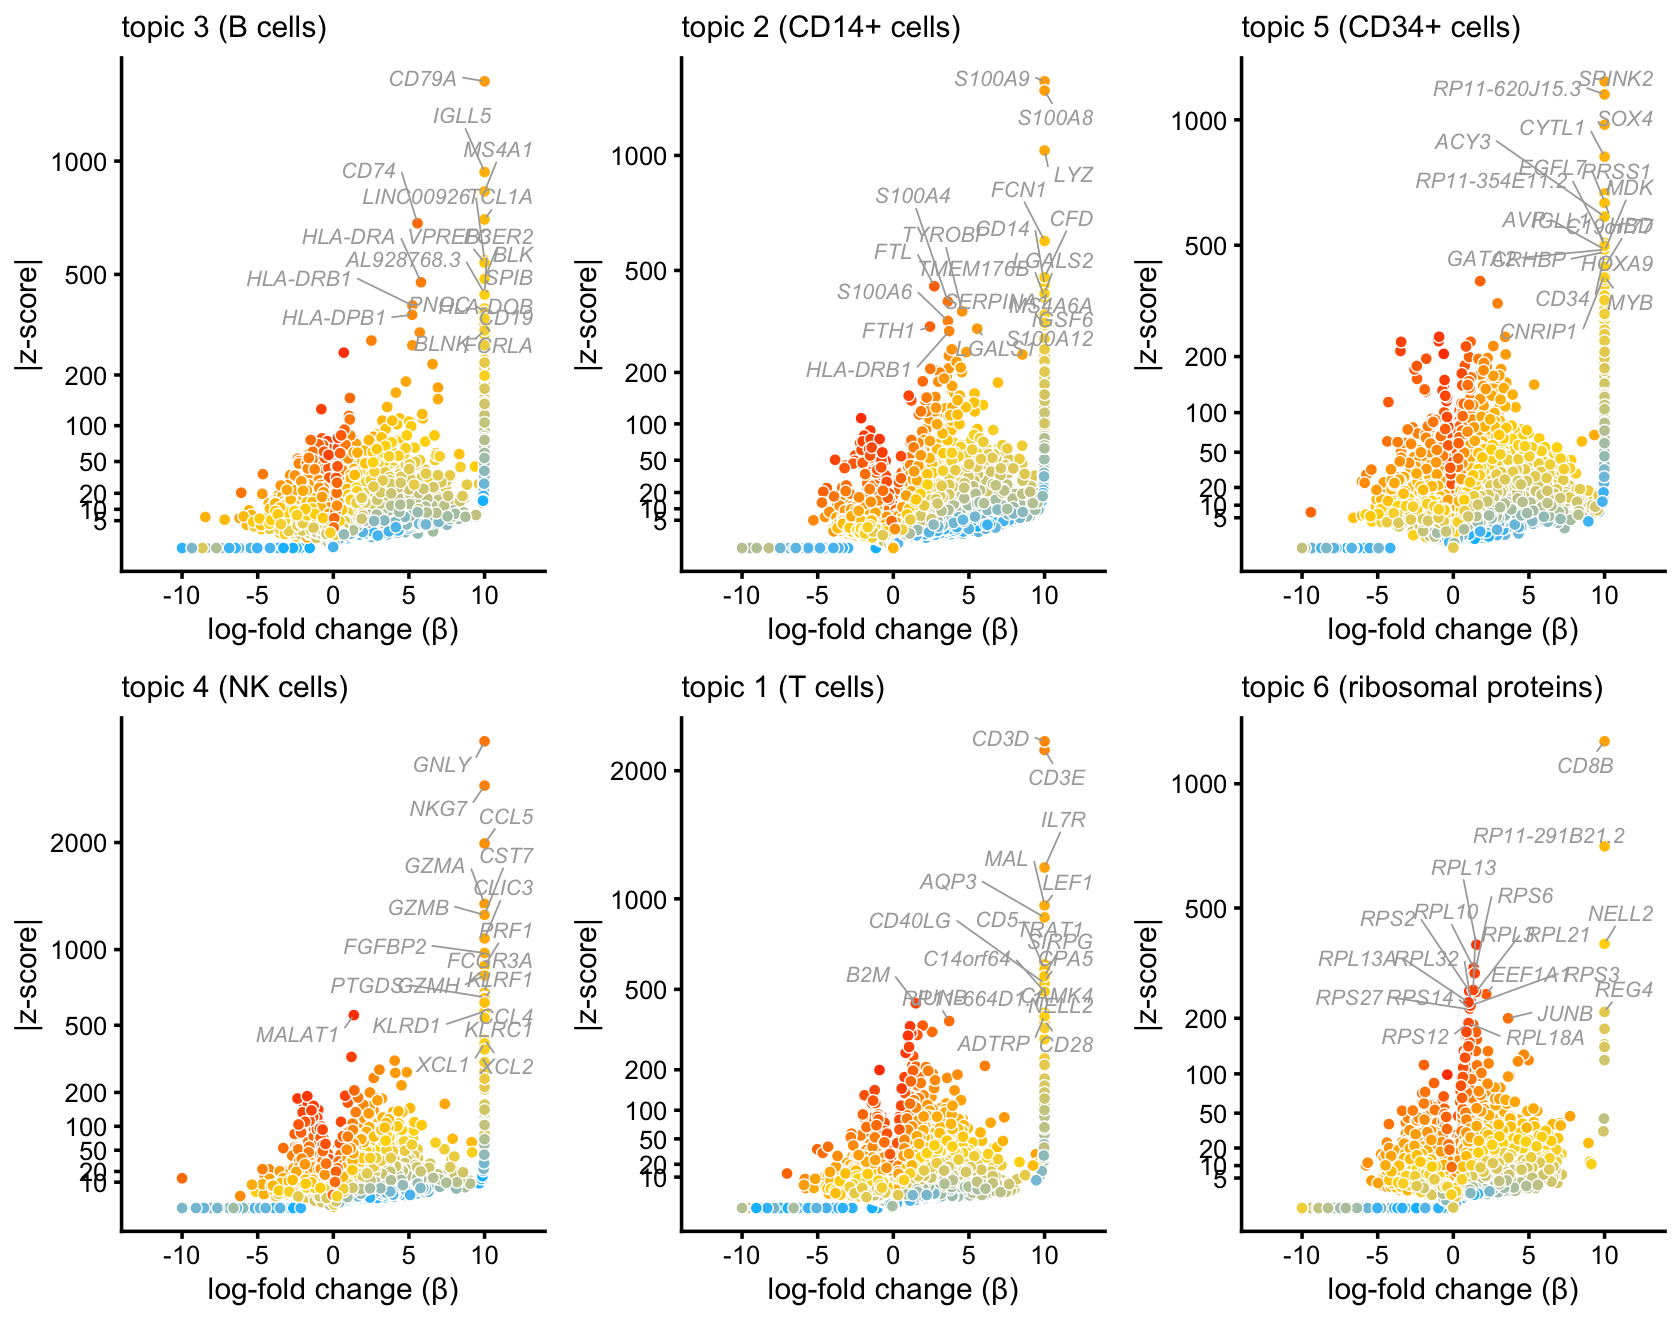
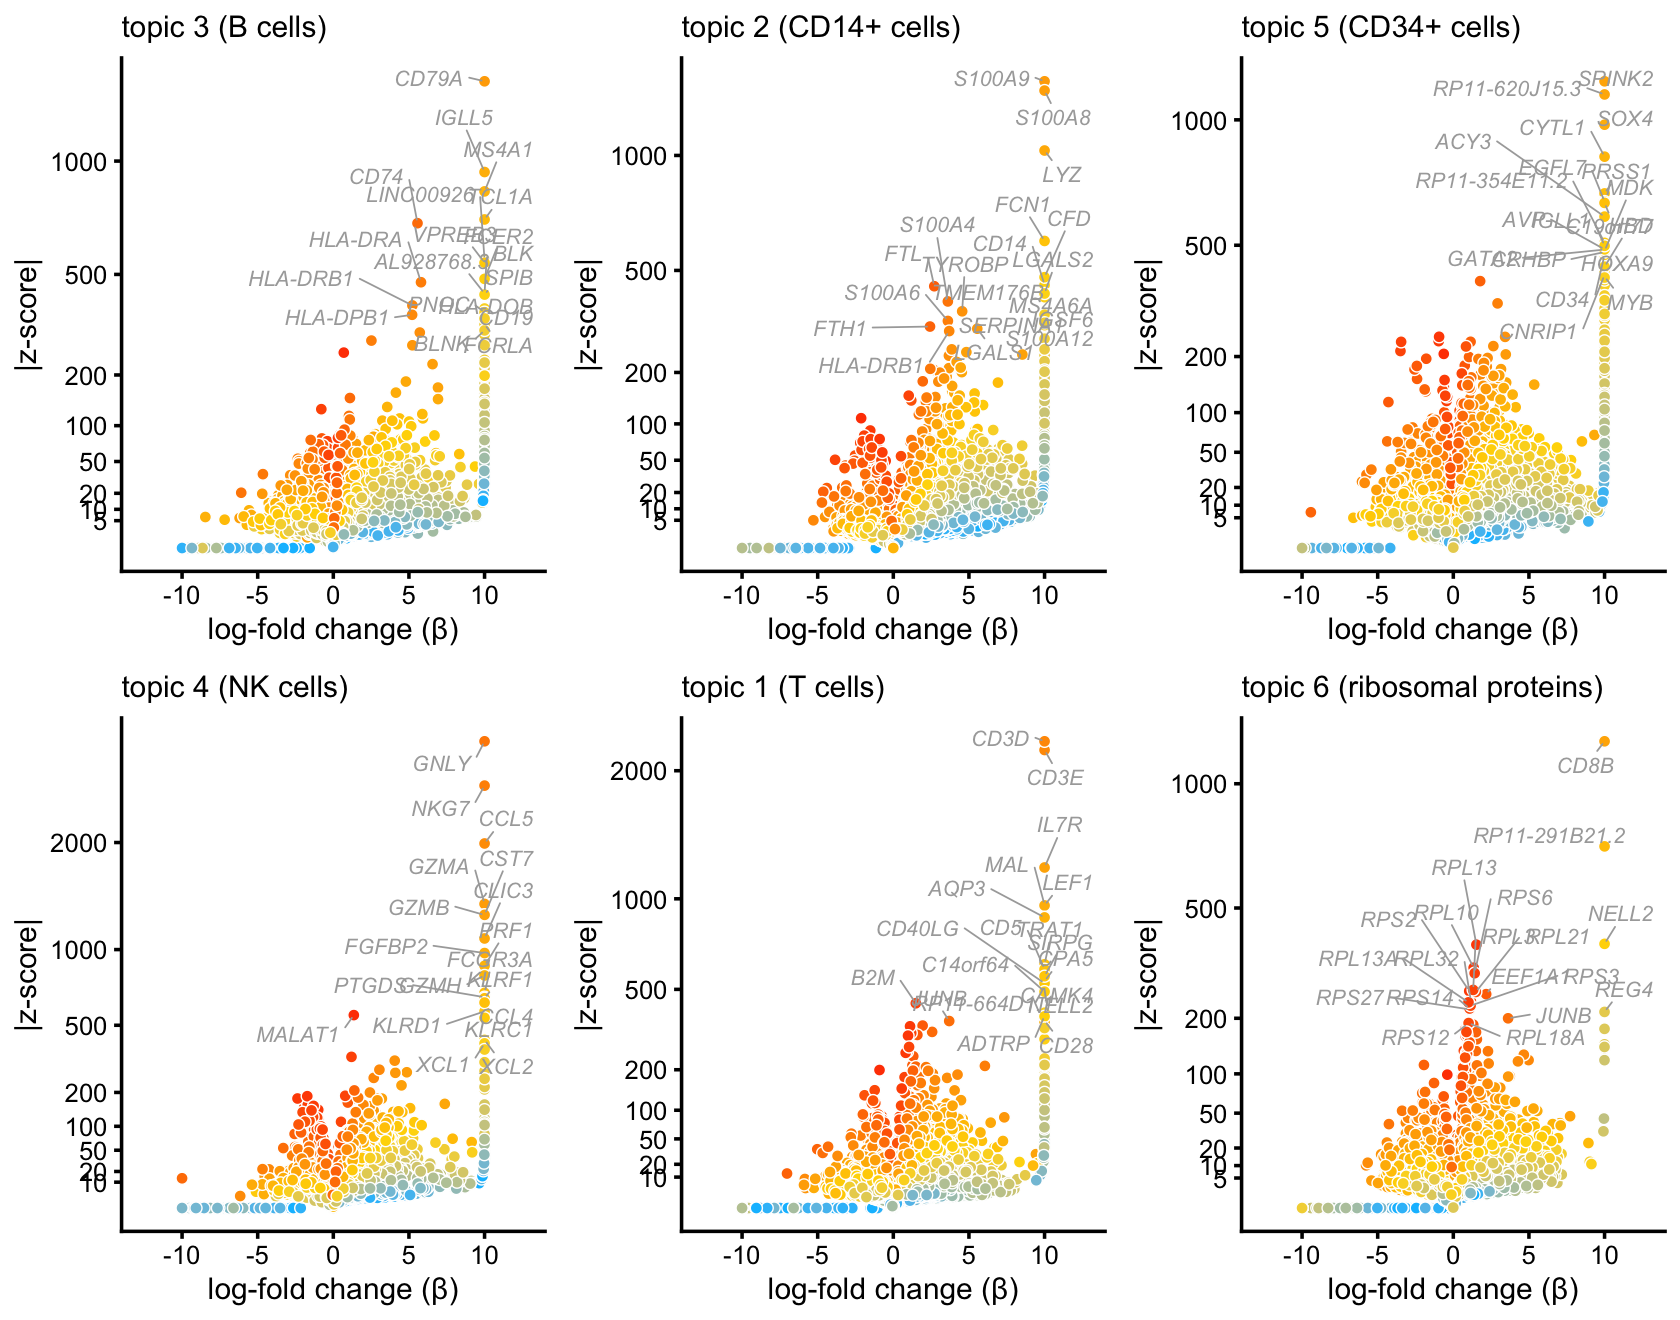
Updated volcano plots and added ribosomal gene scatterplots to plots_purified_pbmc analysis.

diff --git a/docs/plots_purified_pbmc.html b/docs/plots_purified_pbmc.html
@@ -426,16 +426,16 @@ diff-count-analysis-topics
 <div class="panel panel-default">
 <div class="panel-heading">
 <p class="panel-title">
-<a data-toggle="collapse" data-parent="#workflowr-checks" href="#strongRepositoryversionstrongahrefhttpsgithubcomstephenslabsinglecelltopicstree3e298d4909f1de4315b57eb8e6b7b3561d6b9795targetblank3e298d4a"> <span class="glyphicon glyphicon-ok text-success" aria-hidden="true"></span> <strong>Repository version:</strong> <a href="https://github.com/stephenslab/single-cell-topics/tree/3e298d4909f1de4315b57eb8e6b7b3561d6b9795" target="_blank">3e298d4</a> </a>
+<a data-toggle="collapse" data-parent="#workflowr-checks" href="#strongRepositoryversionstrongahrefhttpsgithubcomstephenslabsinglecelltopicstree13fedd96e95368acd3635bfd0ede7a0ee33eba9ftargetblank13fedd9a"> <span class="glyphicon glyphicon-ok text-success" aria-hidden="true"></span> <strong>Repository version:</strong> <a href="https://github.com/stephenslab/single-cell-topics/tree/13fedd96e95368acd3635bfd0ede7a0ee33eba9f" target="_blank">13fedd9</a> </a>
 </p>
 </div>
[2 lines of base64/hex data omitted]
 <div class="panel-body">
 <p>
 Great! You are using Git for version control. Tracking code development and connecting the code version to the results is critical for reproducibility.
 </p>
 <p>
-The results in this page were generated with repository version <a href="https://github.com/stephenslab/single-cell-topics/tree/3e298d4909f1de4315b57eb8e6b7b3561d6b9795" target="_blank">3e298d4</a>. See the <em>Past versions</em> tab to see a history of the changes made to the R Markdown and HTML files.
+The results in this page were generated with repository version <a href="https://github.com/stephenslab/single-cell-topics/tree/13fedd96e95368acd3635bfd0ede7a0ee33eba9f" target="_blank">13fedd9</a>. See the <em>Past versions</em> tab to see a history of the changes made to the R Markdown and HTML files.
 </p>
 <p>
 Note that you need to be careful to ensure that all relevant files for the analysis have been committed to Git prior to generating the results (you can use <code>wflow_publish</code> or <code>wflow_git_commit</code>). workflowr only checks the R Markdown file, but you know if there are other scripts or data files that it depends on. Below is the status of the Git repository when the results were generated:
@@ -498,6 +498,40 @@ Message
 </tr>
 </thead>
 <tbody>
+<tr>
+<td>
+Rmd
+</td>
+<td>
+<a href="https://github.com/stephenslab/single-cell-topics/blob/13fedd96e95368acd3635bfd0ede7a0ee33eba9f/analysis/plots_purified_pbmc.Rmd" target="_blank">13fedd9</a>
+</td>
+<td>
+Peter Carbonetto
+</td>
+<td>
+2021-02-10
+</td>
+<td>
+workflowr::wflow_publish(“plots_purified_pbmc.Rmd”, verbose = TRUE)
+</td>
+</tr>
+<tr>
+<td>
+html
+</td>
+<td>
+<a href="https://rawcdn.githack.com/stephenslab/single-cell-topics/f8e1d992f8ccfc3766d04c38de761b27cd6691aa/docs/plots_purified_pbmc.html" target="_blank">f8e1d99</a>
+</td>
+<td>
+Peter Carbonetto
+</td>
+<td>
+2021-02-10
+</td>
+<td>
+Re-built plots_purified_pbmc page.
+</td>
+</tr>
 <tr>
 <td>
 Rmd
@@ -1082,6 +1116,17 @@ Date
 <tbody>
 <tr>
 <td>
+<a href="https://github.com/stephenslab/single-cell-topics/blob/f8e1d992f8ccfc3766d04c38de761b27cd6691aa/docs/figure/plots_purified_pbmc.Rmd/volcano-plots-1-1.png" target="_blank">f8e1d99</a>
+</td>
+<td>
+Peter Carbonetto
+</td>
+<td>
+2021-02-10
+</td>
+</tr>
+<tr>
+<td>
 <a href="https://github.com/stephenslab/single-cell-topics/blob/d1d4185236959bd7ebe0525df6e35157b7e5c706/docs/figure/plots_purified_pbmc.Rmd/volcano-plots-1-1.png" target="_blank">d1d4185</a>
 </td>
 <td>
@@ -1274,6 +1319,17 @@ Date
 <tbody>
 <tr>
 <td>
+<a href="https://github.com/stephenslab/single-cell-topics/blob/f8e1d992f8ccfc3766d04c38de761b27cd6691aa/docs/figure/plots_purified_pbmc.Rmd/volcano-plots-2-1.png" target="_blank">f8e1d99</a>
+</td>
+<td>
+Peter Carbonetto
+</td>
+<td>
+2021-02-10
+</td>
+</tr>
+<tr>
+<td>
 <a href="https://github.com/stephenslab/single-cell-topics/blob/d1d4185236959bd7ebe0525df6e35157b7e5c706/docs/figure/plots_purified_pbmc.Rmd/volcano-plots-2-1.png" target="_blank">d1d4185</a>
 </td>
 <td>
@@ -1451,6 +1507,17 @@ Date
 <tbody>
 <tr>
 <td>
+<a href="https://github.com/stephenslab/single-cell-topics/blob/f8e1d992f8ccfc3766d04c38de761b27cd6691aa/docs/figure/plots_purified_pbmc.Rmd/volcano-plots-3-1.png" target="_blank">f8e1d99</a>
+</td>
+<td>
+Peter Carbonetto
+</td>
+<td>
+2021-02-10
+</td>
+</tr>
+<tr>
+<td>
 <a href="https://github.com/stephenslab/single-cell-topics/blob/d1d4185236959bd7ebe0525df6e35157b7e5c706/docs/figure/plots_purified_pbmc.Rmd/volcano-plots-3-1.png" target="_blank">d1d4185</a>
 </td>
 <td>
@@ -1493,48 +1560,56 @@ Peter Carbonetto
                subsample_below_quantile = 0.5,
                filter_low_counts = 5e-5,
                width = 450,height = 500)
+# 10103 out of 18367 data points will be included in plot
 volcano_plotly(diff_count_topics,&quot;k2&quot;,
                &quot;volcano_plot_purified_pbmc_cd14.html&quot;,
                genes$symbol,title = &quot;topic 2 (CD14+)&quot;,
                subsample_below_quantile = 0.5,
                filter_low_counts = 5e-5,
                width = 450,height = 500)
+# 10103 out of 18367 data points will be included in plot
 volcano_plotly(diff_count_topics,&quot;k5&quot;,
                &quot;volcano_plot_purified_pbmc_cd34.html&quot;,
                genes$symbol,title = &quot;topic 5 (CD34+)&quot;,
                subsample_below_quantile = 0.5,
                filter_low_counts = 5e-5,
                width = 450,height = 500)
+# 10103 out of 18367 data points will be included in plot
 volcano_plotly(diff_count_topics,&quot;k4&quot;,
                &quot;volcano_plot_purified_pbmc_nk.html&quot;,
                genes$symbol,title = &quot;topic 4 (NK cells)&quot;,
                subsample_below_quantile = 0.5,
                filter_low_counts = 5e-5,
                width = 450,height = 500)
+# 10103 out of 18367 data points will be included in plot
 volcano_plotly(diff_count_topics,&quot;k1&quot;,
                &quot;volcano_plot_purified_pbmc_tcells.html&quot;,
                genes$symbol,title = &quot;topic 1 (T cells)&quot;,
                subsample_below_quantile = 0.5,
                filter_low_counts = 5e-5,
                width = 450,height = 500)
+# 10103 out of 18367 data points will be included in plot
 volcano_plotly(diff_count_topics,&quot;k6&quot;,
                &quot;volcano_plot_purified_pbmc_ribosomal_proteins.html&quot;,
                genes$symbol,title = &quot;topic 6 (ribosomal proteins)&quot;,
                subsample_below_quantile = 0.5,
                filter_low_counts = 5e-5,
                width = 450,height = 500)
+# 10103 out of 18367 data points will be included in plot
 volcano_plotly(diff_count_clusters,&quot;CD8+&quot;,
                &quot;volcano_plot_purified_pbmc_cd8.html&quot;,
                genes$symbol,title = &quot;CD8+ cluster&quot;,
                subsample_below_quantile = 0.5,
                filter_low_counts = 5e-5,
                width = 450,height = 500)
+# 10130 out of 18417 data points will be included in plot
 volcano_plotly(diff_count_clusters,&quot;dendritic&quot;,
                &quot;volcano_plot_purified_pbmc_dendritic.html&quot;,
                genes$symbol,title = &quot;dendritic cells cluster&quot;,
                subsample_below_quantile = 0.5,
                filter_low_counts = 5e-5,
-               width = 450,height = 500)</code></pre>
+               width = 450,height = 500)
+# 10130 out of 18417 data points will be included in plot</code></pre>
 <p>The interactive volcano plots mayalso be viewed by clicking these links: <a href="volcano_plot_purified_pbmc_bcells.html">topic 3 (B cells)</a>, <a href="volcano_plot_purified_pbmc_nk.html">topic 4 (NK cells)</a>, <a href="volcano_plot_purified_pbmc_cd14.html">topic 2 (CD14+)</a>, <a href="volcano_plot_purified_pbmc_cd34.html">topic 5 (CD34+)</a>, <a href="volcano_plot_purified_pbmc_tcells.html">topics 1 (T cells)</a>, <a href="volcano_plot_purified_pbmc_ribosomal_proteins.html">topics 6 (T cells)</a>, <a href="volcano_plot_purified_pbmc_cd8.html">CD8+ cluster</a> and <a href="volcano_plot_purified_pbmc_dendritic.html">dendritic cells cluster</a>.</p>
 <p>The volcano plot for topic 6 suggests an enrichment of ribosomal protein genes. Indeed, there is a very strong correlation between the topic 6 mixture proportion and the fraction of total expression attributed to ribosomal genes:</p>
 <pre class="r"><code>rpgenes &lt;- c(&quot;RPS2&quot;,&quot;RPS3&quot;,&quot;RPS3A&quot;,&quot;RPS4X&quot;,&quot;RPS6&quot;,&quot;RPS7&quot;,&quot;RPS8&quot;,&quot;RPS9&quot;,
@@ -1546,32 +1621,27 @@ volcano_plotly(diff_count_clusters,&quot;dendritic&quot;,
              &quot;RPL18A&quot;,&quot;RPL19&quot;,&quot;RPL21&quot;,&quot;RPL22&quot;,&quot;RPL23&quot;,&quot;RPL23A&quot;,&quot;RPL24&quot;,
              &quot;RPL26&quot;,&quot;RPL27A&quot;,&quot;RPL30&quot;,&quot;RPL31&quot;,&quot;RPL32&quot;,&quot;RPL34&quot;,&quot;RPL35&quot;,
              &quot;RPL36&quot;,&quot;RPL36A&quot;,&quot;RPL37&quot;,&quot;RPL39&quot;,&quot;RPL41&quot;)
-i &lt;- which(celltype == &quot;CD19+ B&quot;)
-j &lt;- which(is.element(genes$symbol,rpgenes))
-pdat &lt;- data.frame(x = fit$L[i,6],y = rowSums(counts[i,j])/rowSums(counts[i,]))
-p20 &lt;- ggplot(pdat,aes(x = x,y = y)) +
-  geom_point() +
-  geom_smooth(method = &quot;lm&quot;,se = FALSE,color = &quot;dodgerblue&quot;,size = 0.5,
-              linetype = &quot;dashed&quot;) +
-  ylim(0,0.6) +
-  labs(x = &quot;topic 6 proportion&quot;,
-       y = &quot;ribosomal expression&quot;,
-       title = &quot;B cells&quot;) + 
-  theme_cowplot(font_size = 10) +
-  theme(plot.title = element_text(size = 10,face = &quot;plain&quot;))
-i &lt;- which(!(celltype == &quot;CD19+ B&quot; | celltype == &quot;CD34+&quot;))
-pdat &lt;- data.frame(x = fit$L[i,6],y = rowSums(counts[i,j])/rowSums(counts[i,]))
-p21 &lt;- ggplot(pdat,aes(x = x,y = y)) +
-  geom_point() +
-  geom_smooth(method = &quot;lm&quot;,se = FALSE,color = &quot;dodgerblue&quot;,size = 0.5,
-              linetype = &quot;dashed&quot;) +
-  ylim(0,0.6) +
-  labs(x = &quot;topic 6 proportion&quot;,
-       y = &quot;ribosomal expression&quot;,
-       title = &quot;all except B and CD34+ cells&quot;) + 
-  theme_cowplot(font_size = 10) +
-  theme(plot.title = element_text(size = 10,face = &quot;plain&quot;))
-plot_grid(p20,p21)</code></pre>
+rgscatterplot &lt;- function (i, title = NULL) {
+  j    &lt;- which(is.element(genes$symbol,rpgenes))
+  pdat &lt;- data.frame(x = fit$L[i,6],
+                     y = rowSums(counts[i,j])/rowSums(counts[i,]))
+  return(ggplot(pdat,aes(x = x,y = y)) +
+         geom_point() +
+         geom_smooth(method = &quot;lm&quot;,se = FALSE,color = &quot;dodgerblue&quot;,
+                     size = 0.5,linetype = &quot;dashed&quot;) +
+         ylim(0,0.6) +
+         labs(x     = &quot;topic 6 proportion&quot;,
+              y     = &quot;ribosomal expression&quot;,
+              title = title) + 
+         theme_cowplot(font_size = 10) +
+         theme(plot.title = element_text(size = 10,face = &quot;plain&quot;)))
+}
+p20 &lt;- rgscatterplot(which(celltype == &quot;CD19+ B&quot;),&quot;B cells&quot;)
+p21 &lt;- rgscatterplot(which(celltype == &quot;CD34+&quot;),&quot;CD34+ cells&quot;)
+p22 &lt;- rgscatterplot(which(!(celltype == &quot;CD19+ B&quot; | celltype == &quot;CD34+&quot;)),
+                     &quot;all other cells&quot;)
+plot_grid(p20,p21,p22,nrow = 1,ncol = 3)</code></pre>
+<p><img src="figure/plots_purified_pbmc.Rmd/ribosomal-proteins-topic-6-1.png" width="840" style="display: block; margin: auto;" /></p>
 <p>The list of ribosomal protein genes is from <a href="https://doi.org/10.1101/gr.214202">Yoshihama <em>et al</em> (2002)</a>.</p>
 <pre class="r"><code>p10 &lt;- lfc_scatterplot(diff_count_facs,diff_count_topics,&quot;CD19+ B&quot;,&quot;k3&quot;,
                        genes$symbol,label_above_quantile = 0.998,
@@ -1617,30 +1687,33 @@ plot_grid(p10,p11,p12,p13,p14,nrow = 3,ncol = 2)</code></pre>
 # [5] Matrix_1.2-18    
 # 
 # loaded via a namespace (and not attached):
-#  [1] Rcpp_1.0.5           invgamma_1.1         lattice_0.20-38     
-#  [4] tidyr_1.0.0          prettyunits_1.1.1    assertthat_0.2.1    
-#  [7] zeallot_0.1.0        rprojroot_1.3-2      digest_0.6.23       
-# [10] truncnorm_1.0-8      R6_2.4.1             backports_1.1.5     
-# [13] MatrixModels_0.4-1   evaluate_0.14        coda_0.19-3         
-# [16] httr_1.4.2           pillar_1.4.3         progress_1.2.2      
-# [19] rlang_0.4.5          lazyeval_0.2.2       data.table_1.12.8   
-# [22] irlba_2.3.3          SparseM_1.78         whisker_0.4         
-# [25] rmarkdown_2.3        labeling_0.3         Rtsne_0.15          
-# [28] stringr_1.4.0        htmlwidgets_1.5.1    munsell_0.5.0       
-# [31] mixsqp_0.3-44        compiler_3.6.2       httpuv_1.5.2        
-# [34] xfun_0.11            pkgconfig_2.0.3      SQUAREM_2017.10-1   
-# [37] mcmc_0.9-6           htmltools_0.4.0      tidyselect_0.2.5    
-# [40] tibble_2.1.3         workflowr_1.6.2.9000 quadprog_1.5-8      
-# [43] viridisLite_0.3.0    withr_2.1.2          crayon_1.3.4        
-# [46] dplyr_0.8.3          later_1.0.0          MASS_7.3-51.4       
-# [49] grid_3.6.2           jsonlite_1.6         gtable_0.3.0        
-# [52] lifecycle_0.1.0      git2r_0.26.1         magrittr_1.5        
-# [55] scales_1.1.0         RcppParallel_4.4.2   stringi_1.4.3       
-# [58] farver_2.0.1         fs_1.3.1             promises_1.1.0      
-# [61] vctrs_0.2.1          tools_3.6.2          glue_1.3.1          
-# [64] purrr_0.3.3          hms_0.5.2            yaml_2.2.0          
-# [67] colorspace_1.4-1     ashr_2.2-51          plotly_4.9.2        
-# [70] knitr_1.26           quantreg_5.54        MCMCpack_1.4-5</code></pre>
+#  [1] httr_1.4.2           tidyr_1.0.0          splines_3.6.2       
+#  [4] jsonlite_1.6         viridisLite_0.3.0    RcppParallel_4.4.2  
+#  [7] shiny_1.4.0          assertthat_0.2.1     mixsqp_0.3-44       
+# [10] yaml_2.2.0           progress_1.2.2       pillar_1.4.3        
+# [13] backports_1.1.5      lattice_0.20-38      quantreg_5.54       
+# [16] glue_1.3.1           quadprog_1.5-8       digest_0.6.23       
+# [19] promises_1.1.0       colorspace_1.4-1     htmltools_0.4.0     
+# [22] httpuv_1.5.2         pkgconfig_2.0.3      invgamma_1.1        
+# [25] SparseM_1.78         xtable_1.8-4         purrr_0.3.3         
+# [28] scales_1.1.0         whisker_0.4          later_1.0.0         
+# [31] Rtsne_0.15           MatrixModels_0.4-1   git2r_0.26.1        
+# [34] tibble_2.1.3         mgcv_1.8-31          farver_2.0.1        
+# [37] withr_2.1.2          ashr_2.2-51          lazyeval_0.2.2      
+# [40] mime_0.8             magrittr_1.5         crayon_1.3.4        
+# [43] mcmc_0.9-6           evaluate_0.14        fs_1.3.1            
+# [46] nlme_3.1-142         MASS_7.3-51.4        truncnorm_1.0-8     
+# [49] tools_3.6.2          data.table_1.12.8    prettyunits_1.1.1   
+# [52] hms_0.5.2            lifecycle_0.1.0      stringr_1.4.0       
+# [55] MCMCpack_1.4-5       plotly_4.9.2         munsell_0.5.0       
+# [58] irlba_2.3.3          compiler_3.6.2       rlang_0.4.5         
+# [61] grid_3.6.2           htmlwidgets_1.5.1    crosstalk_1.0.0     
+# [64] labeling_0.3         rmarkdown_2.3        gtable_0.3.0        
+# [67] R6_2.4.1             knitr_1.26           dplyr_0.8.3         
+# [70] fastmap_1.0.1        zeallot_0.1.0        workflowr_1.6.2.9000
+# [73] rprojroot_1.3-2      stringi_1.4.3        SQUAREM_2017.10-1   
+# [76] Rcpp_1.0.5           vctrs_0.2.1          tidyselect_0.2.5    
+# [79] xfun_0.11            coda_0.19-3</code></pre>
 </div>
 
 
